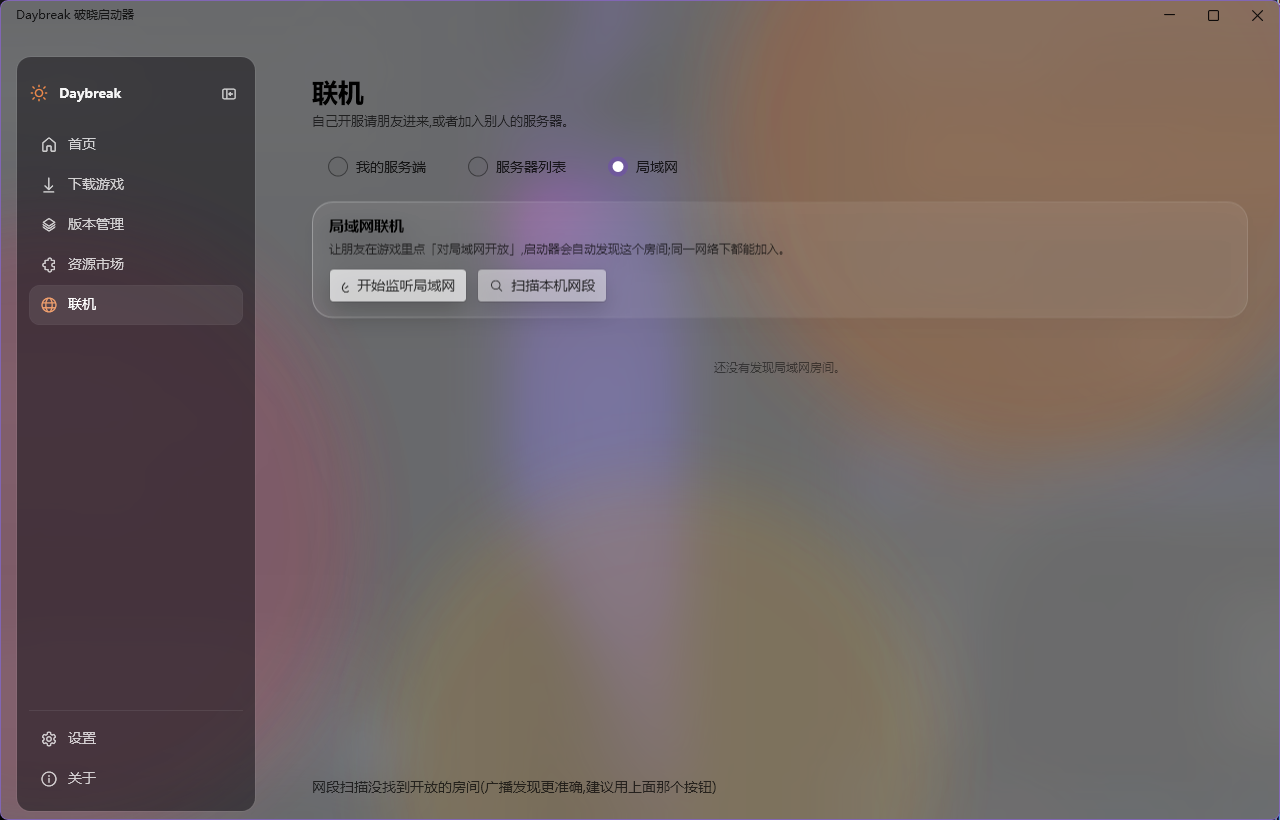
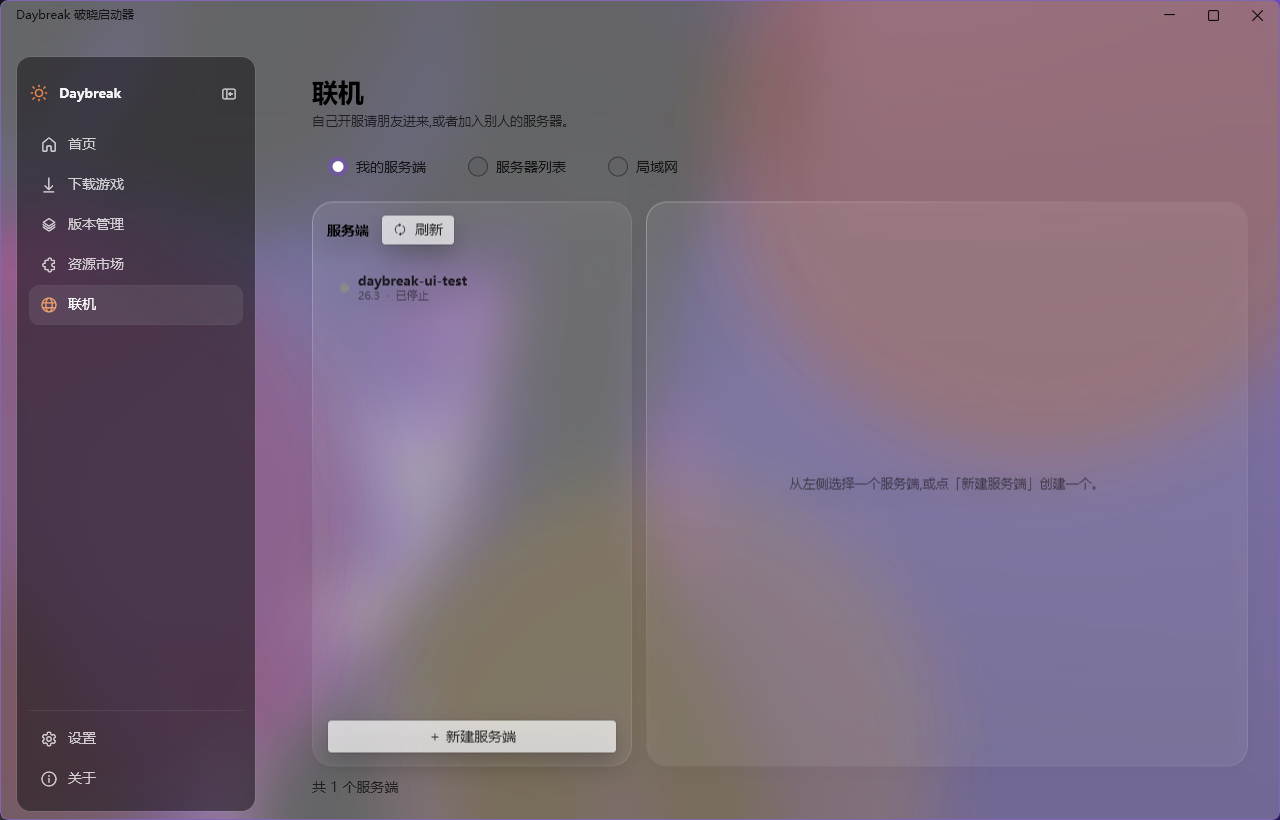
联机辅助:UI 端到端实测通过 + 修复重复启动误报 + 更新交接文档
UI 端到端实测(全部通过):
- 新建向导:类型下拉 4 个选项、EULA 复选框默认不勾选、表单校验生效
- 通过 UI 真实创建原版服务端 26.3 → server.jar 60.8MB 落盘、eula.txt 写入 eula=true、
  server.properties 的 motd/端口/online-mode 均正确
- 从 UI 启动服务端 → java 进程起来 → 就绪
- 控制台输入 list 命令 → 服务端真实响应 There are 0 of a max of 20 players online
- 从 UI 停止 → java 进程完全退出

修复真实 bug:重复点击「启动」产生误导性报错
- 实测中按钮被点了两次,第二次命中「已在运行中」的守卫并被当作启动失败,
  控制台打印「启动失败:服务端已在运行中」而服务端其实正常运行,底部状态栏也一直残留该错误。
- 现在:已在运行时视为正常状态(提示「已在运行中」而非报错);
  服务端异常退出时把退出码带出来,否则用户只看到「已停止」不知为何。

更新 AGENTS.md(新增「联机功能相关坑」整节):
- 图标名必须用反射枚举验证,dll 字符串搜索会误判(Network24 就是这么踩的)
- Core 模型无 INotifyPropertyChanged,直接绑 UI 不刷新,必须包装
- 本项目不用 IValueConverter,条件显示走 DataTrigger + VM 布尔属性
- Forge run.bat 的 @ 参数文件解析(含排除 @echo)、DownloadEngine 大小语义、
  Fabric 需原版 jar、SRV 记录必须查、四种服务端下载源实测对照表、服务端进程管理要点

测试:离线 118 项通过。

diff --git a/Daybreak.Launcher/ViewModels/MultiplayerViewModel.cs b/Daybreak.Launcher/ViewModels/MultiplayerViewModel.cs
@@ -323,6 +323,16 @@ public partial class MultiplayerViewModel : ObservableObject
         if (item is null || IsBusy)
             return;
 
+        // 「已在运行」不是失败:快速连点按钮、或状态还没同步回来时会走到这里,
+        // 报成"启动失败"会让用户以为出问题了(实测踩过)。
+        if (GetServerManager().IsRunning(item.Name))
+        {
+            item.State = ServerState.Running;
+            item.StateText = "运行中";
+            StatusText = $"{item.Name} 已在运行中";
+            return;
+        }
+
         IsBusy = true;
         StatusText = $"正在启动 {item.Name}…";
 
@@ -347,7 +357,13 @@ public partial class MultiplayerViewModel : ObservableObject
                     item.StateText = e.Message ?? DescribeState(e.State);
 
                     if (e.State == ServerState.Stopped)
+                    {
+                        // 异常退出要把退出码带出来,否则用户只看到"已停止"却不知为何
+                        if (e.ExitCode is not null and not 0)
+                            StatusText = $"{item.Name} 已退出(退出码 {e.ExitCode}),请查看控制台日志";
+
                         RefreshServers();
+                    }
                 });
             };
 

diff --git a/AGENTS.md b/AGENTS.md
@@ -15,10 +15,10 @@
 # 构建(注意 .slnx 新格式)
 dotnet build Daybreak.slnx -c Debug
 
-# 测试(50 项:39 离线单元 + 11 联网集成;集成测试带 [Trait("Category","Integration")])
+# 测试(离线 118 项 + 联网集成 20 项;集成测试带 [Trait("Category","Integration")])
 dotnet test Daybreak.slnx -c Debug --no-build
 
-# 只跑离线快速测试(CI 用这个;集成测试会真下载游戏 jar / Java 运行时 / Forge 安装器,较慢)
+# 只跑离线快速测试(CI 用这个;集成测试会真下载游戏 jar / Java 运行时 / 服务端核心,较慢)
 dotnet test Daybreak.slnx -c Debug --no-build --filter "Category!=Integration"
 
 # 实机运行
@@ -153,6 +153,49 @@ Daybreak.slnx(.NET 10 新格式解决方案)
   RowDefinition 却用了 `Grid.Row="3"`(状态文字),WPF 会把它挤到最后一行,
   导致状态文字与 Mod 管理卡片**重叠**。改布局网格时务必数一遍行数。
 
+### 联机功能(WPF-UI / 服务端)相关坑
+
+- **图标名必须用反射验证,不能用 dll 字符串搜索**:我用字符串搜索判断 `Network24` "存在",
+  结果它并不是 `SymbolRegular` 的枚举成员,XAML 解析直接抛
+  `XamlParseException: Network24 is not a valid value for SymbolRegular`,
+  表现为「点侧栏导航没反应、内容区不切换」(异常被 DispatcherUnhandledException 吞掉只写日志)。
+  **正确做法**是写个反射小程序枚举真实成员(共 9235 个):
+  ```csharp
+  Enum.GetNames(typeof(SymbolRegular)).Contains("Globe24")
+  ```
+  已确认不存在:`Network24` / `Wifi24` / `World24`;存在:`VirtualNetwork24` / `Globe24` / `Earth24`。
+- **Core 模型直接绑到 UI 不会刷新**:`SavedServer` 等 Core 类没有 `INotifyPropertyChanged`,
+  改它的属性后界面无反应(实测:状态栏说"查询成功"、列表却还是灰点和「—」)。
+  必须像 `SavedServerItemViewModel` 那样在 UI 层包一层可观察对象。
+- **本项目不使用 IValueConverter**,条件显示统一走 `DataTrigger` + VM 暴露的布尔属性
+  (如 `HasSelectedServer`/`IsServersTab`/`NeedsEula`)。新增页面请沿用,不要引入转换器。
+- **Forge 1.17+ 服务端不能用 `java -jar run.bat` 启动**:安装器产出的 run.bat 内容是
+  `java @user_jvm_args.txt @libraries/net/minecraftforge/forge/<ver>/win_args.txt %*`,
+  正确做法是从 run.bat 解析 `@` 引用再拼命令行(见 `ServerManager.ExtractAtArguments`)。
+  解析时**要排除 `@echo` 这类 batch 指令**(否则会传给 java 一个无效的 `@echo` 参数),
+  做法是只接受真实存在的 `.txt` 参数文件。
+- **`DownloadEngine.DownloadFileAsync` 的 expectedSize 语义**:`null`=大小未知、`0`=**已知空文件**。
+  传 0 表达"未知"会得到一个 0 字节文件,直到服务端启动报
+  `Invalid or corrupt jarfile` 才暴露(编译期与单元测试都发现不了)。
+- **Fabric 服务端必须同时准备原版 server.jar**:`fabric-server-launch.jar` 依赖同目录的
+  原版 jar 做运行时补丁(`fabric-server-launcher.properties` 的 `serverJar` 项)。
+- **Minecraft 服务器地址必须查 SRV 记录**:`_minecraft._tcp.<域名>`。
+  实测 `2b2t.org` 的真实入口是 `connect.2b2t.org:25565`,直连 A 记录会打到 Cloudflare 上然后超时。
+  **.NET 的 `System.Net.Dns` 不支持 SRV 查询**,`SrvResolver` 是手写的 DNS 报文
+  (UDP 53,含压缩指针解析、按系统 DNS 服务器轮询)。握手里仍填**原始域名**而非 SRV 目标。
+- **各服务端下载源(2026-10-26 全部实测)**:
+  | 类型 | 端点 | 备注 |
+  |---|---|---|
+  | Vanilla | 版本 JSON 的 `downloads.server` | 带 SHA1,BMCLAPI 有镜像 |
+  | Fabric | `meta.fabricmc.net/v2/versions/loader/{游戏}/{加载器}/{安装器}/server/jar` | **必须 4 段路径**,3 段会 404 |
+  | Paper | `fill.papermc.io/v3/projects/paper/...` | **旧 API `api.papermc.io/v2` 已下线(410)**;带 SHA256;`/versions/{ver}` 还给出官方推荐 JVM 参数 |
+  | Forge | Forge 安装器 + `--installServer` | **BMCLAPI 对该安装器返回 403**,必须走官方源 |
+- **服务端进程管理要点**:必须 `RedirectStandardInput=true`(靠 stdin 发 `stop`/`op` 等命令);
+  停服先发 `stop` 命令、超时才强杀(直接杀会导致世界未保存);日志量比游戏更大,
+  UI 侧必须节流(实测用 300ms DispatcherTimer 批量刷,并只保留尾部 500 行)。
+- **服务端实例存储布局**:`<游戏目录>/daybreak-servers/<名称>/`(含 server.jar/world/logs),
+  索引在 `<游戏目录>/daybreak-servers.json`;收藏的服务器列表在 `<游戏目录>/daybreak-serverlist.json`。
+
 ## 实机验证工作流
 
 辅助脚本(仓库根):
@@ -187,6 +230,20 @@ Daybreak.slnx(.NET 10 新格式解决方案)
   - ✅ Mod 列表搜索/排序:按文件名搜索,支持 名称/大小/更新状态 三种排序(已实机截图验证)
   - ✅ Mod 一键更新:可更新项旁出现「更新」按钮,支持「全部更新」批量处理(下载新版 → 删旧文件 → 刷新记录)
   - 🐞 实机发现并修复:引导后主程序不启动(ShutdownMode)、版本页状态文字与 Mod 卡片重叠(缺 RowDefinition)
+- **联机辅助功能(2026-10-26 完成)**:四种服务端全部实测可开服,联机页三 Tab 已实机截图验证
+  - ✅ **Vanilla / Fabric / Paper / Forge 四种服务端端到端打通**(集成测试各跑一次真实开服):
+    从下载核心 → EULA 校验 → 启动 → 就绪日志 `Done (...)` → 端口监听 → 控制台命令 → 优雅停服
+  - ✅ 服务端实例存 `<游戏目录>/daybreak-servers/<名称>/`,索引 `daybreak-servers.json`
+  - ✅ server.properties 可视化读写(**保留注释与未知键**);EULA 必须用户显式勾选
+  - ✅ 控制台:stdin 命令通道(`op`/`list`/`whitelist` 等)+ 日志节流(300ms 批量刷、尾部 500 行)
+  - ✅ 服务器列表:收藏(持久化)、SLP 查在线人数与延迟、**一键进服**(`--server/--port` 直连)
+  - ✅ 局域网:监听 Minecraft 广播(组播 224.0.2.60:4445)+ 网段扫描兜底
+  - ✅ **新增 SrvResolver**:手写 DNS SRV 查询(.NET 的 `Dns` 类不支持),
+    修复了 2b2t.org 这类"真实入口在 SRV 记录里"的服务器直连必超时的问题
+  - 🐞 实机发现并修复:图标名 `Network24` 不存在导致整页 XAML 解析失败、
+    Core 模型无 INPC 导致查询结果不刷新、Forge run.bat 启动方式、DownloadEngine 大小语义、
+    Fabric 缺原版 jar、`@echo` 被误当参数文件
+  - 📌 未验证:一键进服的真实拉起(需要已安装的游戏版本)、局域网广播在两台真机间的发现
 - **M5 进展(2026-10-26 完成)**:
   - ✅ 仓库:GitHub `https://github.com/gan4012/Daybreak`(公开,SSH over 443 推送)
     + Gitee 镜像 `https://gitee.com/wergansailikebai/daybreak`(公开,HTTPS + 私人令牌推送)
